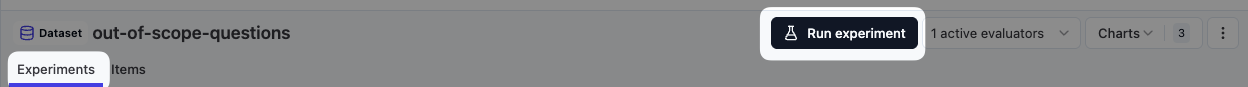
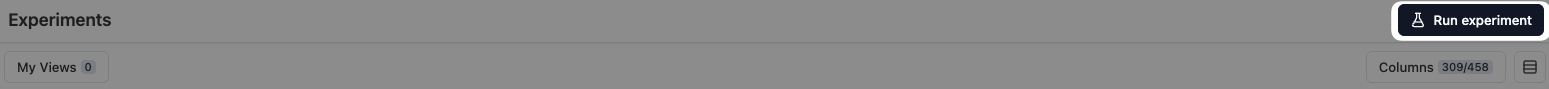
docs: update offline experiment nav to start from Experiments page

diff --git a/offline-experiment/setup.md b/offline-experiment/setup.md
@@ -11,17 +11,17 @@ Prerequisites:
 
 Create the `deferred-the-question` evaluator (boolean, target: Experiments). Full walkthrough in [`deferred-the-question/setup.md`](./deferred-the-question/setup.md). Come back here once it's saved.
 
-## 2. Open the dataset
+## 2. Open Experiments
 
-Sidebar → **Evaluation → Datasets** → click `out-of-scope-questions`.
+Sidebar → **Evaluation → Experiments**. (You now start an experiment from here — you'll pick the dataset inside the run modal in a later step.)
 
-![Sidebar: Datasets](../images/experiment-run-01-sidebar.png)
+![Sidebar: Experiments](../images/experiment-run-01-sidebar.png)
 
 ## 3. Run experiment
 
-Top right of the dataset page → **Run experiment**.
+Top right of the Experiments page → **Run experiment**.
 
-![Dataset header with Run experiment](../images/experiment-run-02-dataset-header.png)
+![Experiments header with Run experiment](../images/experiment-run-02-dataset-header.png)
 
 ## 4. Pick UI mode
 